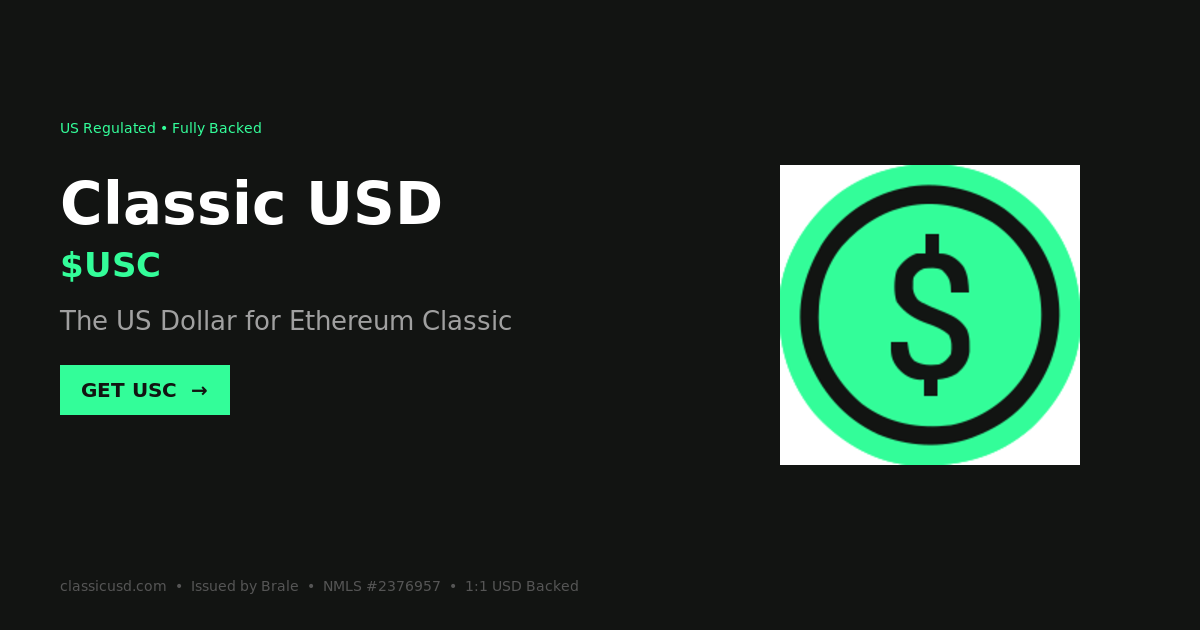
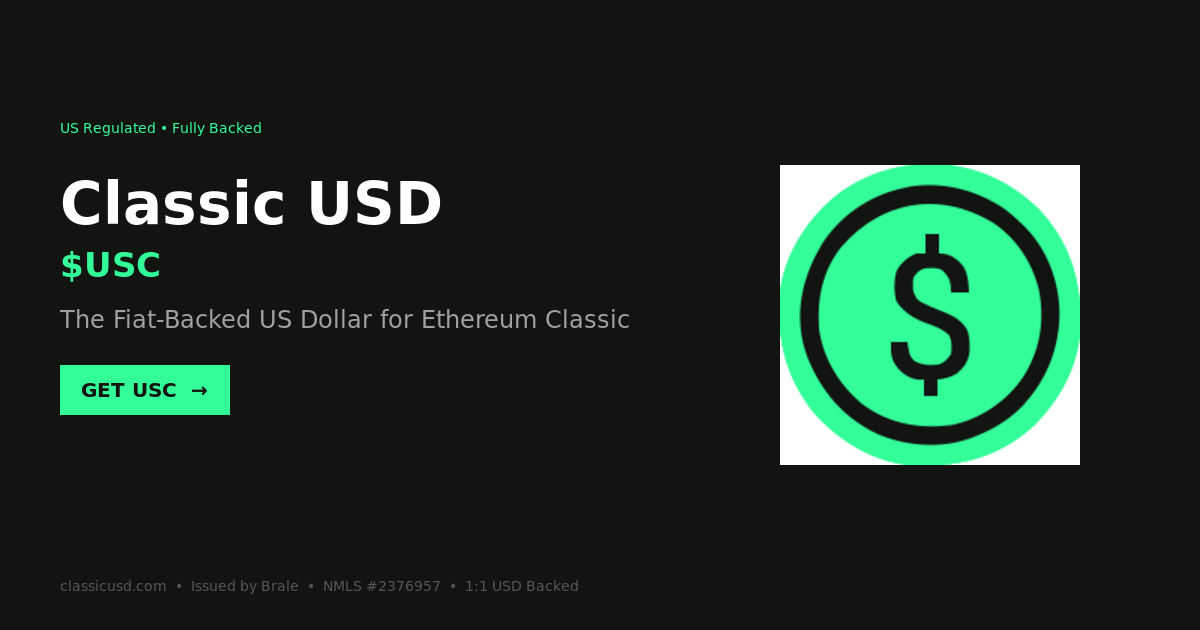
feat: update tagline to "The Fiat-Backed US Dollar for Ethereum Classic"
- Update SITE.title and SITE.tagline in constants.ts
- Update hero section headline
- Update footer tagline
- Update manifest.json description
- Update OG/Twitter image alt text
- Regenerate static OG image with new tagline

Changed region(s): [[0.0617, 0.4825, 0.5242, 0.5429]]

diff --git a/src/app/page.tsx b/src/app/page.tsx
@@ -99,7 +99,7 @@ export default function Home() {
             variants={staggerItem}
           >
             <span className="text-usc-text">The </span>
-            <span className="text-gradient-usc">US Dollar</span>
+            <span className="text-gradient-usc">Fiat-Backed US Dollar</span>
             <span className="text-usc-text"> for Ethereum Classic</span>
           </motion.h1>
 
@@ -364,7 +364,7 @@ export default function Home() {
               </div>
               <div className="w-12 h-12 mb-4 rounded-xl bg-etc-green/20 flex items-center justify-center">
                 <svg className="w-6 h-6 text-etc-green" viewBox="0 0 24 24" fill="currentColor">
-                  <path d="M12 2L4 12l8 5 8-5-8-10zm0 15l-8-5 8 10 8-10-8 5z"/>
+                  <path d="M12 2L4 12l8 5 8-5-8-10zm0 15l-8-5 8 10 8-10-8 5z" />
                 </svg>
               </div>
               <h3 className="text-xl font-bold text-usc-text mb-2">{CHAINS.etc.name}</h3>
@@ -384,7 +384,7 @@ export default function Home() {
             >
               <div className="w-12 h-12 mb-4 rounded-xl bg-purple-500/20 flex items-center justify-center">
                 <svg className="w-6 h-6 text-purple-400" viewBox="0 0 24 24" fill="currentColor">
-                  <path d="M17.5 7.5L12 4 6.5 7.5V14L12 17.5l5.5-3.5V7.5z"/>
+                  <path d="M17.5 7.5L12 4 6.5 7.5V14L12 17.5l5.5-3.5V7.5z" />
                 </svg>
               </div>
               <h3 className="text-xl font-bold text-usc-text mb-2">{CHAINS.polygon.name}</h3>
@@ -546,7 +546,7 @@ export default function Home() {
               <div className="flex items-start justify-between mb-6">
                 <div className="w-14 h-14 rounded-xl bg-etc-green/20 flex items-center justify-center">
                   <svg className="w-7 h-7 text-etc-green" viewBox="0 0 24 24" fill="currentColor">
-                    <path d="M12 2L2 7l10 5 10-5-10-5zM2 17l10 5 10-5M2 12l10 5 10-5"/>
+                    <path d="M12 2L2 7l10 5 10-5-10-5zM2 17l10 5 10-5M2 12l10 5 10-5" />
                   </svg>
                 </div>
                 <svg className="w-5 h-5 text-usc-text-muted group-hover:text-etc-green transition-colors" fill="none" stroke="currentColor" viewBox="0 0 24 24">
@@ -578,7 +578,7 @@ export default function Home() {
               <div className="flex items-start justify-between mb-6">
                 <div className="w-14 h-14 rounded-xl bg-etc-green/20 flex items-center justify-center">
                   <svg className="w-7 h-7 text-etc-green" viewBox="0 0 24 24" fill="currentColor">
-                    <path d="M12 2L2 7l10 5 10-5-10-5zM2 17l10 5 10-5M2 12l10 5 10-5"/>
+                    <path d="M12 2L2 7l10 5 10-5-10-5zM2 17l10 5 10-5M2 12l10 5 10-5" />
                   </svg>
                 </div>
                 <svg className="w-5 h-5 text-usc-text-muted group-hover:text-etc-green transition-colors" fill="none" stroke="currentColor" viewBox="0 0 24 24">
@@ -1011,7 +1011,7 @@ export default function Home() {
             <div className="text-center md:text-left">
               <p className="text-usc-text font-bold text-lg mb-1">Classic USD</p>
               <p className="text-usc-text-muted text-sm">
-                The US Dollar for Ethereum Classic
+                The Fiat-Backed US Dollar for Ethereum Classic
               </p>
             </div>
             <div className="flex gap-6 text-usc-text-secondary text-sm">
@@ -1029,7 +1029,6 @@ export default function Home() {
           <div className="mt-8 pt-8 border-t border-usc-border text-center text-usc-text-muted text-xs">
             <p>
               Classic USD is issued by Brale Inc. NMLS #{PARTNERS.brale.nmls}.
-              Not FDIC insured. May lose value.
             </p>
           </div>
         </div>

diff --git a/src/lib/constants.ts b/src/lib/constants.ts
@@ -46,13 +46,13 @@ export const CHAINS = {
 // Contract Links
 export const CONTRACT_LINKS = {
   etc: {
-    address: `${CHAINS.etc.explorer}/address/${USC_CONTRACT.etc}`,
+    address: `${CHAINS.etc.explorer}/token/${USC_CONTRACT.etc}`,
   },
   polygon: {
-    address: `${CHAINS.polygon.explorer}/address/${USC_CONTRACT.polygon}`,
+    address: `${CHAINS.polygon.explorer}/token/${USC_CONTRACT.polygon}`,
   },
   mordor: {
-    address: `${CHAINS.mordor.explorer}/address/${USC_CONTRACT.mordor}`,
+    address: `${CHAINS.mordor.explorer}/token/${USC_CONTRACT.mordor}`,
   },
 } as const;
 
@@ -77,7 +77,7 @@ export const INTEGRATIONS = {
     name: 'ETCswap V2',
     url: 'https://v2.etcswap.org',
     logo: '/images/etcswapv2.svg',
-    description: 'Trade USC on the leading ETC DEX',
+    description: 'Trade USC on the leading AMM DEX',
   },
   etcswapV3: {
     name: 'ETCswap V3',
@@ -93,25 +93,25 @@ export const LINKS = {
   braleApp: 'https://app.brale.xyz',
   braleDocs: 'https://docs.brale.xyz',
   ethereumClassic: 'https://ethereumclassic.com',
-  blockscout: 'https://etc.blockscout.com',
+  blockscout: 'https://etc.blockscout.com/token/0xDE093684c796204224BC081f937aa059D903c52a',
 } as const;
 
 // Social Links
 export const SOCIAL = {
-  twitter: 'https://twitter.com/classicusd',
-  ethereumClassic: 'https://twitter.com/eth_classic',
+  twitter: 'https://twitter.com/classic_usd',
+  ethereumClassic: 'https://twitter.com/ETC_Network',
 } as const;
 
 // Site Metadata
 export const SITE = {
   name: 'Classic USD',
-  title: 'Classic USD | The US Dollar for Ethereum Classic',
-  tagline: 'The US Dollar for Ethereum Classic',
+  title: 'Classic USD | The Fiat-Backed US Dollar for Ethereum Classic',
+  tagline: 'The Fiat-Backed US Dollar for Ethereum Classic',
   description: 'Classic USD ($USC) is the definitive stablecoin for Ethereum Classic. US-regulated, fully backed, and redeemable 1:1 for USD. Issued by Brale.',
   url: 'https://classicusd.com',
   image: '/images/og-usc.png',
   version: '0.1.0',
-  twitterHandle: '@classicusd',
+  twitterHandle: '@classic_usd',
 } as const;
 
 // SEO Keywords organized by category

diff --git a/src/app/layout.tsx b/src/app/layout.tsx
@@ -59,7 +59,7 @@ export const metadata: Metadata = {
         url: '/images/og-usc.png',
         width: 1200,
         height: 630,
-        alt: 'Classic USD - The US Dollar for Ethereum Classic',
+        alt: 'Classic USD - The Fiat-Backed US Dollar for Ethereum Classic',
         type: 'image/png',
       },
     ],
@@ -76,7 +76,7 @@ export const metadata: Metadata = {
     description: SITE.description,
     images: {
       url: '/images/og-usc.png',
-      alt: 'Classic USD - The US Dollar for Ethereum Classic',
+      alt: 'Classic USD - The Fiat-Backed US Dollar for Ethereum Classic',
     },
   },
 
